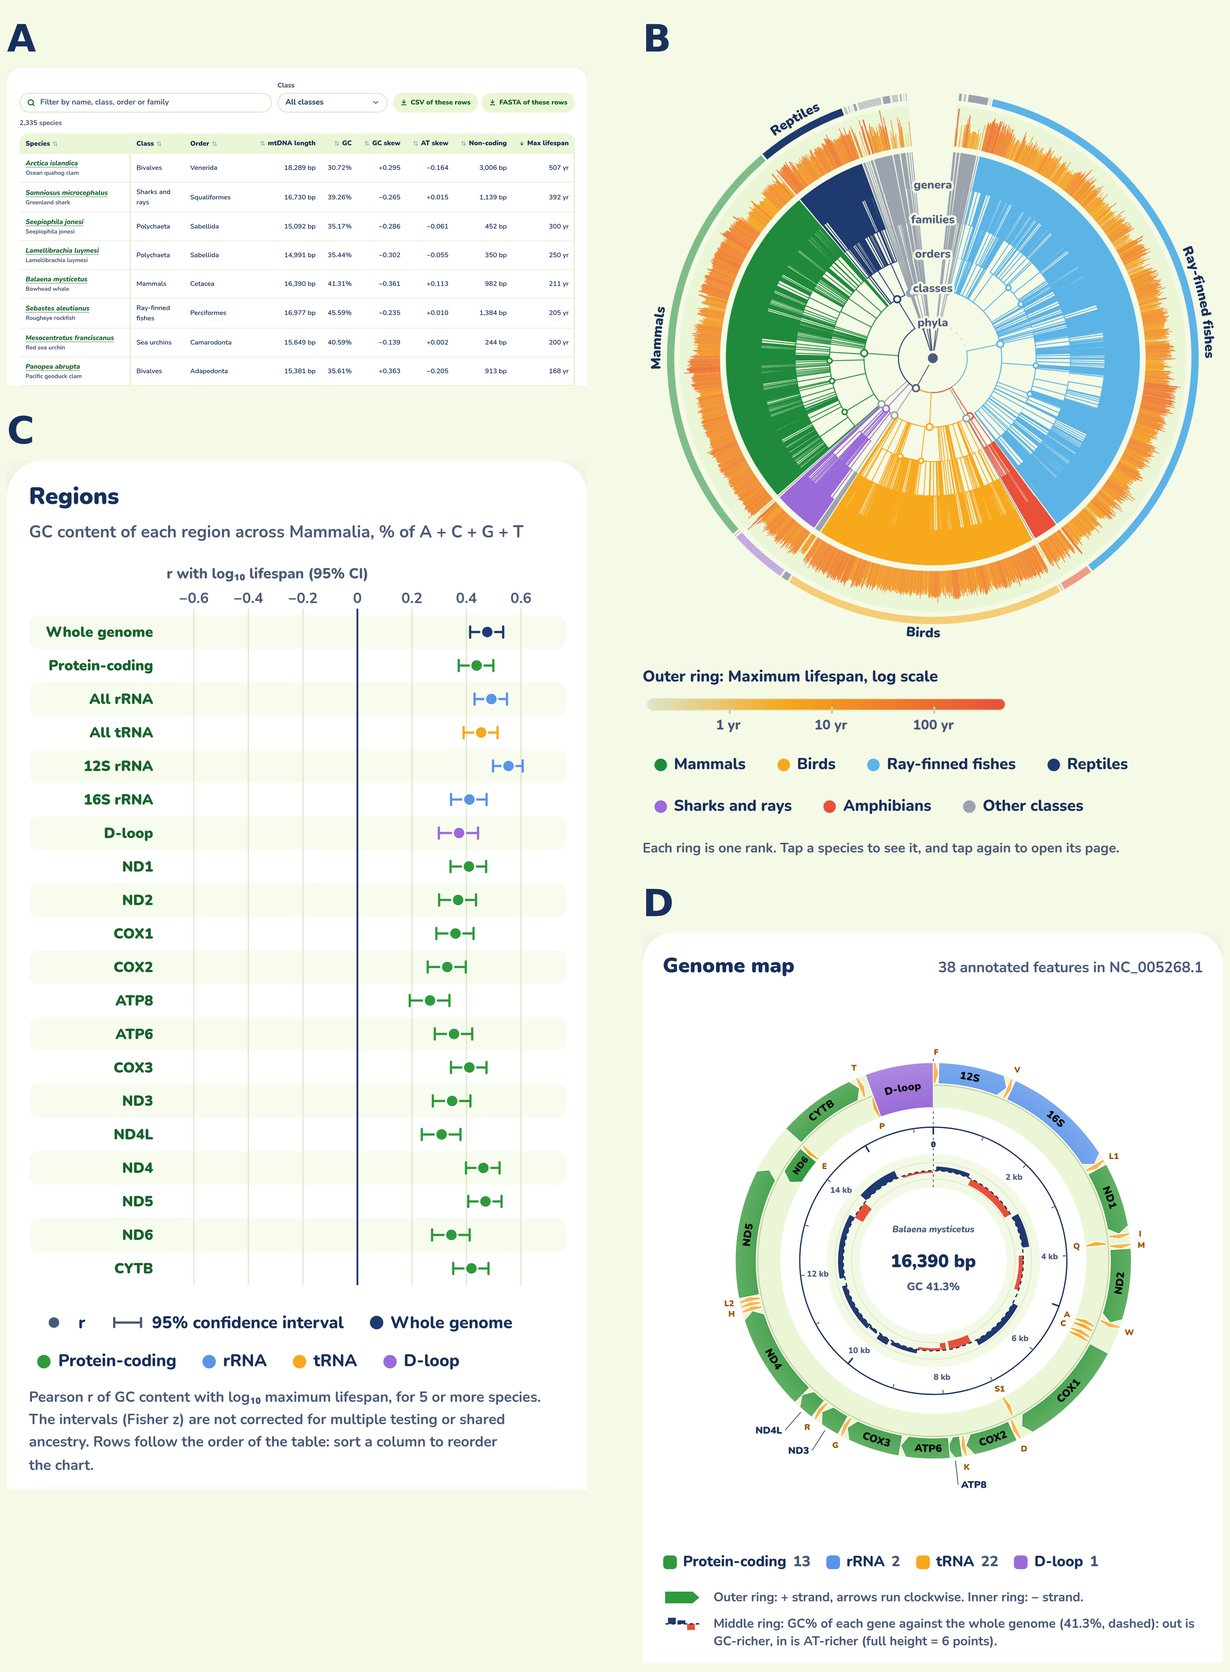
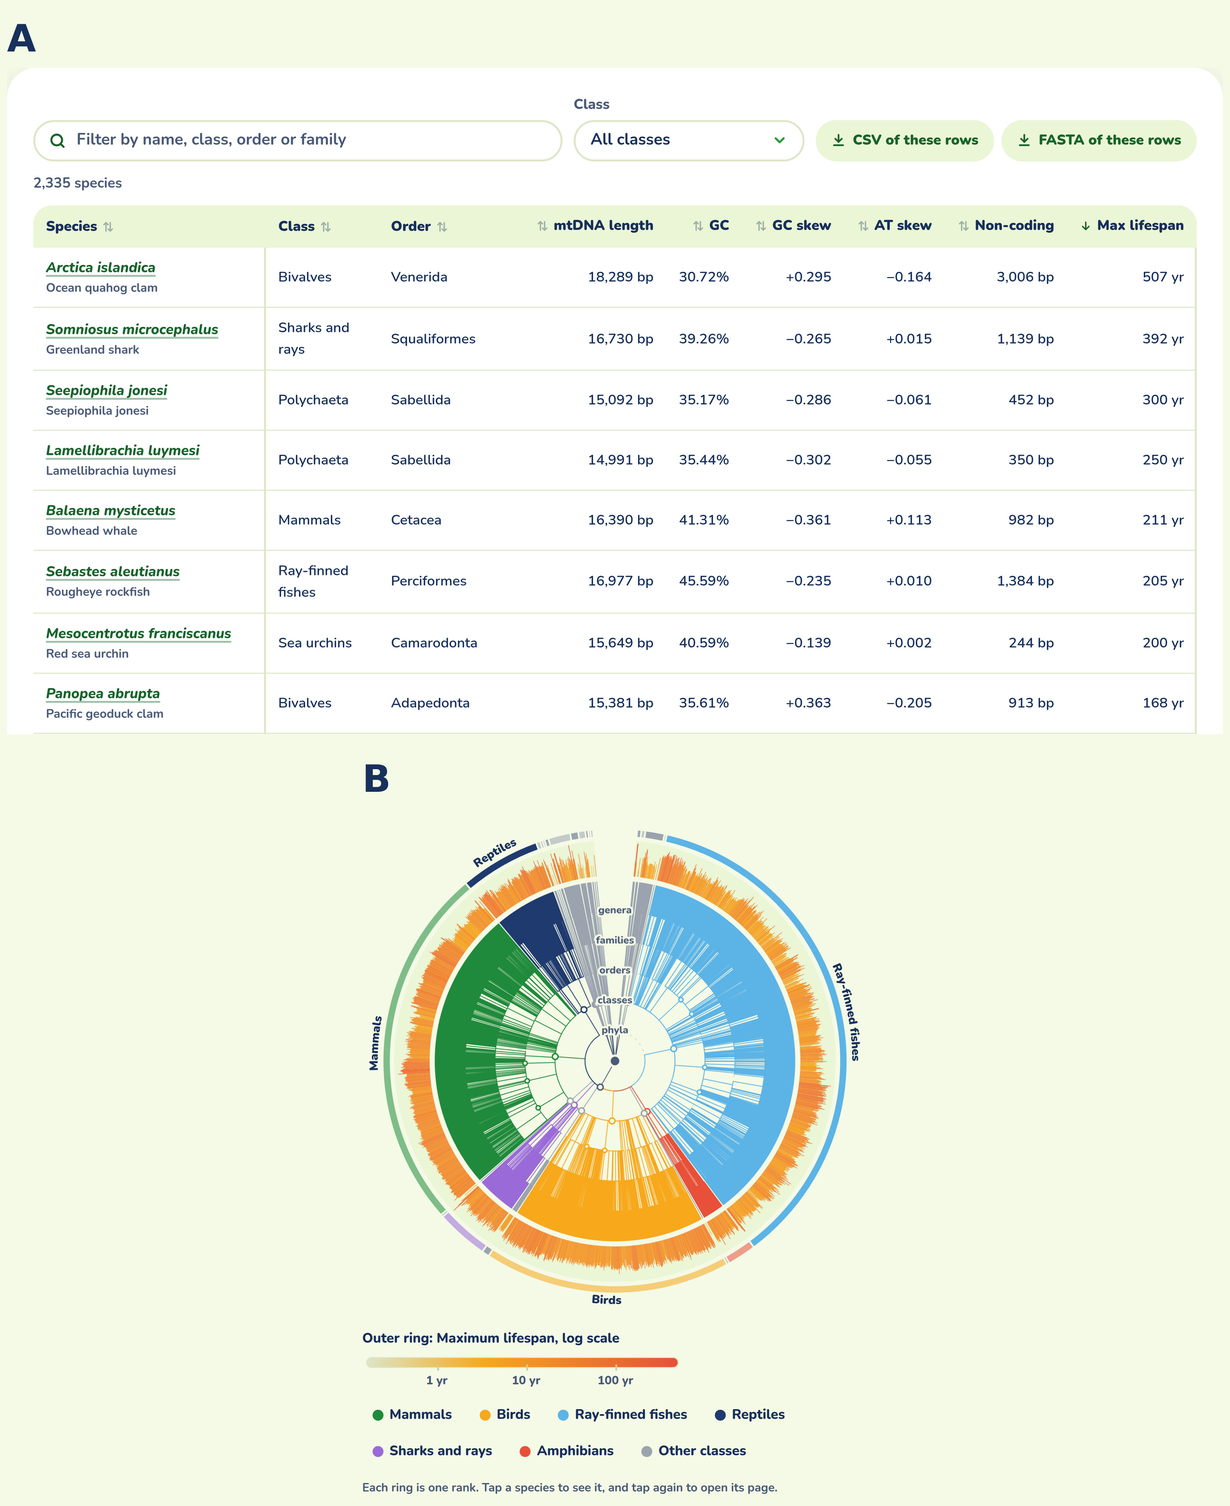
Figure 3 is split so its species list prints legibly, and Figure 4 says what the alignment view is for
Decision D7 of the manuscript run: Figure 3 keeps the species list across the page (5 pt, from 2.4) and the
radial tree; the Compare chart and the genome map become Figure 3—figure supplement 1, made by the same
capture script. The text cites the new panels, Figure 4's legend gains what the lifespan-sorted alignment
shows, and NOTES.md gives each image's printed size.

diff --git a/docs/manuscript/figures/capture-figures-3-4.ts b/docs/manuscript/figures/capture-figures-3-4.ts
@@ -1,4 +1,5 @@
-// Figures 3 and 4 of the MitoAge 2 manuscript: the interface and the COX1 alignment, captured from the built site.
+// Figures 3 and 4 of the MitoAge 2 manuscript and Figure 3—figure supplement 1: the interface and the COX1
+// alignment, captured from the built site.
 //
 //   bun run build                                                     # if dist/ is not current
 //   env SITE_URL=https://just-dna.life BASE_PATH=/mitoage bun run preview --port 4349
@@ -24,10 +25,11 @@
 //      without the selectors, the search and the download cards. Viewport 660 px, so that the grid is at
 //      least 560 px wide and the viewer keeps its full species names.
 //
-// Figure 3 is laid out for the page width (178 mm): A above C in the left column, B above D in the right,
-// each column 86 mm. Figure 4 is laid out for one column (86 mm). ImageMagick labels the panels and writes
-// FIGURE_3_INTERFACE.jpg and FIGURE_4_ALIGNMENT.jpg (quality 90). The script prints, for each panel, the
-// smallest text in it and the size that text prints at.
+// Figure 3 (decision D7) is panel A across the page (178 mm) with panel B centred under it, as wide as a
+// total height of 218 mm allows. Figure 3—figure supplement 1 is C beside D, relabelled A and B, each in a
+// column of 86 mm across the page. Figure 4 is one column (86 mm). ImageMagick labels the panels and writes
+// FIGURE_3_INTERFACE.jpg, FIGURE_3_SUPPLEMENT_1.jpg and FIGURE_4_ALIGNMENT.jpg (quality 90). The script
+// prints, for each panel, the smallest text in it and the size that text prints at.
 
 import { openChrome, originArg, magick, size, printedPt, sleep, join, type Rect } from "./cdp.ts";
 
@@ -42,7 +44,9 @@ const PAGE_MM = 178;
 const DPI = 450; // the composed figures, as printed
 const colPx = Math.round((COLUMN_MM / 25.4) * DPI);
 const gutterPx = Math.round(((PAGE_MM - 2 * COLUMN_MM) / 25.4) * DPI);
+const MAX_HEIGHT_MM = 218; // Figure 3, as printed
 const out3 = join(import.meta.dir, "FIGURE_3_INTERFACE.jpg");
+const out3s = join(import.meta.dir, "FIGURE_3_SUPPLEMENT_1.jpg");
 const out4 = join(import.meta.dir, "FIGURE_4_ALIGNMENT.jpg");
 
 type Panel = { letter: string; file: string; cssWidth: number; smallest: { px: number; text: string }; note?: string };
@@ -201,38 +205,59 @@ try {
   await c.close();
 
   // ------------------------------------------------------------------------------------------- composing
-  // Each panel to the column width, its letter above it, on the page background.
-  const placed = (p: Panel, name: string) => {
-    const scaled = join(w, `${name}-col.png`);
-    magick([p.file, "-resize", `${colPx - 2 * 18}x`, "-bordercolor", BG, "-border", "18x0", scaled]);
-    if (!p.letter) return scaled;
+  // A panel scaled to a width, its letter above it, on the page background; returns the file and the width
+  // in mm the panel's own image prints at.
+  const pagePx = Math.round((PAGE_MM / 25.4) * DPI);
+  const MARGIN = 18;
+  const placed = (p: Panel, name: string, widthPx: number, letter = p.letter) => {
+    const scaled = join(w, `${name}-w.png`);
+    magick([p.file, "-resize", `${widthPx - 2 * MARGIN}x`, "-bordercolor", BG, "-border", `${MARGIN}x0`, scaled]);
+    const mm = ((widthPx - 2 * MARGIN) / DPI) * 25.4;
+    if (!letter) return { file: scaled, mm };
     const labelled = join(w, `${name}-lab.png`);
-    magick(["-background", BG, "-fill", INK, "-font", FONT, "-pointsize", "96", "(", "-size", `${colPx}x150`, "xc:" + BG, "-gravity", "west",
-      "-annotate", "+18+0", p.letter, ")", scaled, "-append", labelled]);
-    return labelled;
+    magick(["-background", BG, "-fill", INK, "-font", FONT, "-pointsize", "96", "(", "-size", `${widthPx}x150`, "xc:" + BG, "-gravity", "west",
+      "-annotate", `+${MARGIN}+0`, letter, ")", scaled, "-append", labelled]);
+    return { file: labelled, mm };
   };
-  const spacer = (h: number) => {
-    const f = join(w, `spacer-${h}.png`);
-    magick(["-size", `${colPx}x${h}`, `xc:${BG}`, f]);
-    return f;
-  };
-  const left = join(w, "left.png");
-  const right = join(w, "right.png");
-  magick(["-background", BG, placed(panels.A, "a"), spacer(40), placed(panels.C, "c"), "-append", left]);
-  magick(["-background", BG, placed(panels.B, "b"), spacer(40), placed(panels.D, "d"), "-append", right]);
-  magick(["-background", BG, left, "(", "-size", `${gutterPx}x1`, `xc:${BG}`, ")", right, "-gravity", "north", "+append",
+  const printed: Record<string, number> = {}; // mm each panel prints at
+
+  // Figure 3: A across the page; B under it, centred, as wide as the height budget allows.
+  const a3 = placed(panels.A, "a", pagePx);
+  printed.A = a3.mm;
+  const budgetPx = Math.round((MAX_HEIGHT_MM / 25.4) * DPI);
+  const bImg = size(panels.B.file);
+  const room = budgetPx - size(a3.file).h - 40 - 150 - 48; // spacer, B's letter strip, top and bottom border
+  const bWidth = Math.min(pagePx, Math.floor((room * bImg.w) / bImg.h) + 2 * MARGIN);
+  const b3 = placed(panels.B, "b", bWidth);
+  printed.B = b3.mm;
+  magick(["-background", BG, a3.file, "(", "-size", `${pagePx}x40`, `xc:${BG}`, ")",
+    "(", b3.file, "-gravity", "center", "-extent", `${pagePx}x${size(b3.file).h}`, ")", "-gravity", "northwest", "-append",
     "-bordercolor", BG, "-border", "0x24", "-quality", "90", out3]);
-  magick([placed(panels.F4, "f4"), "-background", BG, "-bordercolor", BG, "-border", "0x24", "-quality", "90", out4]);
+
+  // Figure 3—figure supplement 1: C beside D, each in a column of 86 mm, relabelled A and B.
+  const c3 = placed(panels.C, "c", colPx, "A");
+  const d3 = placed(panels.D, "d", colPx, "B");
+  printed.C = c3.mm;
+  printed.D = d3.mm;
+  magick(["-background", BG, c3.file, "(", "-size", `${gutterPx}x1`, `xc:${BG}`, ")", d3.file, "-gravity", "north", "+append",
+    "-bordercolor", BG, "-border", "0x24", "-quality", "90", out3s]);
+
+  // Figure 4: one column.
+  const f4 = placed(panels.F4, "f4", colPx);
+  printed.F4 = f4.mm;
+  magick([f4.file, "-background", BG, "-bordercolor", BG, "-border", "0x24", "-quality", "90", out4]);
 
   const report = (file: string, mm: number) => {
     const s = size(file);
     return `${s.w} x ${s.h} px; at ${mm} mm wide ${((mm * s.h) / s.w).toFixed(0)} mm tall, ${(s.w / (mm / 25.4)).toFixed(0)} dpi`;
   };
   console.log(`wrote ${out3}: ${report(out3, PAGE_MM)}`);
+  console.log(`wrote ${out3s}: ${report(out3s, PAGE_MM)}`);
   console.log(`wrote ${out4}: ${report(out4, COLUMN_MM)}`);
+  const names: Record<string, string> = { A: "Figure 3A", B: "Figure 3B", C: "supplement A (Regions)", D: "supplement B (genome map)", F4: "Figure 4" };
   for (const [k, p] of Object.entries(panels)) {
-    const pt = printedPt(p.smallest.px, p.cssWidth, COLUMN_MM - (2 * 18 * 25.4) / DPI);
-    console.log(`smallest text, ${k === "F4" ? "Figure 4" : `panel 3${k}`}: ${p.smallest.px.toFixed(1)} CSS px ("${p.smallest.text}") in a cut ${Math.round(p.cssWidth)} px wide, ${pt.toFixed(1)} pt in a ${COLUMN_MM} mm column`);
+    const pt = printedPt(p.smallest.px, p.cssWidth, printed[k]);
+    console.log(`smallest text, ${names[k]}: ${p.smallest.px.toFixed(1)} CSS px ("${p.smallest.text}") in a cut ${Math.round(p.cssWidth)} px wide, printed ${printed[k].toFixed(0)} mm wide: ${pt.toFixed(1)} pt`);
   }
   console.log(`panels in ${w}`);
 } catch (e) {

diff --git a/docs/manuscript/mitoage2.md b/docs/manuscript/mitoage2.md
@@ -376,9 +376,8 @@ has no partial correlation, so none of its tests passes all three.
 > correlation table the build writes; Figures 3, 4 and 5 are screenshots of the build 2 site. On 2026-11-15
 > every figure was redrawn or retaken for print by the scripts in `figures/` (NOTES.md, "Figures"), the
 > screenshots from a build of `main` after roadmap RM19, and every legend number was checked against them.
-> Still yours: the screenshots' smallest text prints at 2.4 to 6 pt (Figure 3A smallest, and Figure 3 is
-> taller than a page), so Figure 3 needs splitting or some panels moved to a supplement (eLife allows
-> figure supplements).
+> Figure 3 was split on 2026-11-15 (decision D7): its Compare chart and genome map are now Figure 3—figure
+> supplement 1. The smallest printed text is 3.4 to 6 pt across the screenshots (the tree and the genome map).
 
 ![Figure 1. What the controls leave of the lifespan correlations](figures/FIGURE_1_CONTROLS.jpg)
 
@@ -471,7 +470,7 @@ therefore not assessed here, rather than assessed and found negative.
 The menu follows the data: Species, Tree, Genes, Compare, Data and About (Figure 3).
 
 - **Species.** A sortable, filterable list of all species in two views, genome features and life
-  history (Figure 3A), with a page per species and its circular genome map (Figure 3D). The filtered rows
+  history (Figure 3A), with a page per species and its circular genome map (Figure 3—figure supplement 1B). The filtered rows
   download as CSV and their mitogenomes as one FASTA file, which the browser fetches from NCBI by versioned accession; MitoAge
   does not store the mitogenomes themselves.
 - **Tree.** A zoomable radial tree of the species on the dated phylogeny (Figure 3B), with a page per
@@ -480,7 +479,7 @@ The menu follows the data: Species, Tree, Genes, Compare, Data and About (Figure
   across species, its correlations with lifespan, and its alignment with lifespan shown beside the rows
   (Figure 4).
 - **Compare.** The comparative statistics of the original site (summary statistics and r with log10 lifespan,
-  by region or by child taxon, and codon usage), each table with a chart of its rows (Figure 3C). Two to six species can be set side by side.
+  by region or by child taxon, and codon usage), each table with a chart of its rows (Figure 3—figure supplement 1A). Two to six species can be set side by side.
 - **Plot explorer**, under Compare. Any two mtDNA features, or a feature against a life-history trait, for all species or
   one taxon, with the strongest correlations listed with their false discovery rate, partial and contrast
   statistics (Figure 5).
@@ -501,9 +500,13 @@ links to the original site's data in the literature keep working.
 the ocean quahog (*Arctica islandica*, 507 years) and the Greenland shark (*Somniosus microcephalus*,
 392 years) lead the 2,335 species the list holds, the 19 retired ones included. The rows shown, after any filter, download as CSV and their mitogenomes
 as one FASTA file. (**B**) The radial tree of all species by taxonomic rank, coloured by class, with each
-species' maximum lifespan on a log scale in the outer ring; any clade zooms into view. (**C**) Compare,
+species' maximum lifespan on a log scale in the outer ring; any clade zooms into view.
+
+![Figure 3—figure supplement 1. Two further views of the interface](figures/FIGURE_3_SUPPLEMENT_1.jpg)
+
+**Figure 3—figure supplement 1.** Two further views of the interface. (**A**) Compare,
 class Mammalia: Pearson's r of the GC content of each region with log10 maximum lifespan and its 95%
-confidence interval, computed by the page for 5 or more species and not corrected for multiple testing or shared ancestry. (**D**) The
+confidence interval, computed by the page for 5 or more species and not corrected for multiple testing or shared ancestry. (**B**) The
 circular genome map of the bowhead whale (*Balaena mysticetus*, NC_005268.1, 16,390 bp): genes on the
 two strands in the outer and inner rings, and in the middle ring the GC content of each gene against that
 of the whole genome.
@@ -516,7 +519,8 @@ whales. Residues are coloured by the class of their side chain; the bar above ea
 the rows on show that carry its most common residue, and each species' maximum lifespan is drawn beside its
 row. The alignment (MAFFT v7.526, FFT-NS-2) covers 2,316 species in 679 columns; columns where more than
 half of the rows on show have a gap are hidden (514 of 679 remain; the panel shows the first 20 rows and 24 of
-those columns).
+those columns). Sorted by lifespan, each column puts the residues of long- and short-lived species side by side;
+the screen of single alignment columns on the dated tree (Results) tests such differences systematically.
 
 ![Figure 5. The plot explorer](figures/FIGURE_5_PLOT_EXPLORER.jpg)
 

diff --git a/docs/manuscript/mitoage2.proposed.md b/docs/manuscript/mitoage2.proposed.md
@@ -376,9 +376,8 @@ has no partial correlation, so none of its tests passes all three.
 > correlation table the build writes; Figures 3, 4 and 5 are screenshots of the build 2 site. On 2026-11-15
 > every figure was redrawn or retaken for print by the scripts in `figures/` (NOTES.md, "Figures"), the
 > screenshots from a build of `main` after roadmap RM19, and every legend number was checked against them.
-> Still yours: the screenshots' smallest text prints at 2.4 to 6 pt (Figure 3A smallest, and Figure 3 is
-> taller than a page), so Figure 3 needs splitting or some panels moved to a supplement (eLife allows
-> figure supplements).
+> Figure 3 was split on 2026-11-15 (decision D7): its Compare chart and genome map are now Figure 3—figure
+> supplement 1. The smallest printed text is 3.4 to 6 pt across the screenshots (the tree and the genome map).
 
 ![Figure 1. What the controls leave of the lifespan correlations](figures/FIGURE_1_CONTROLS.jpg)
 
@@ -471,7 +470,7 @@ therefore not assessed here, rather than assessed and found negative.
 The menu follows the data: Species, Tree, Genes, Compare, Data and About (Figure 3).
 
 - **Species.** A sortable, filterable list of all species in two views, genome features and life
-  history (Figure 3A), with a page per species and its circular genome map (Figure 3D). The filtered rows
+  history (Figure 3A), with a page per species and its circular genome map (Figure 3—figure supplement 1B). The filtered rows
   download as CSV and their mitogenomes as one FASTA file, which the browser fetches from NCBI by versioned accession; MitoAge
   does not store the mitogenomes themselves.
 - **Tree.** A zoomable radial tree of the species on the dated phylogeny (Figure 3B), with a page per
@@ -480,7 +479,7 @@ The menu follows the data: Species, Tree, Genes, Compare, Data and About (Figure
   across species, its correlations with lifespan, and its alignment with lifespan shown beside the rows
   (Figure 4).
 - **Compare.** The comparative statistics of the original site (summary statistics and r with log10 lifespan,
-  by region or by child taxon, and codon usage), each table with a chart of its rows (Figure 3C). Two to six species can be set side by side.
+  by region or by child taxon, and codon usage), each table with a chart of its rows (Figure 3—figure supplement 1A). Two to six species can be set side by side.
 - **Plot explorer**, under Compare. Any two mtDNA features, or a feature against a life-history trait, for all species or
   one taxon, with the strongest correlations listed with their false discovery rate, partial and contrast
   statistics (Figure 5).
@@ -501,9 +500,13 @@ links to the original site's data in the literature keep working.
 the ocean quahog (*Arctica islandica*, 507 years) and the Greenland shark (*Somniosus microcephalus*,
 392 years) lead the 2,335 species the list holds, the 19 retired ones included. The rows shown, after any filter, download as CSV and their mitogenomes
 as one FASTA file. (**B**) The radial tree of all species by taxonomic rank, coloured by class, with each
-species' maximum lifespan on a log scale in the outer ring; any clade zooms into view. (**C**) Compare,
+species' maximum lifespan on a log scale in the outer ring; any clade zooms into view.
+
+![Figure 3—figure supplement 1. Two further views of the interface](figures/FIGURE_3_SUPPLEMENT_1.jpg)
+
+**Figure 3—figure supplement 1.** Two further views of the interface. (**A**) Compare,
 class Mammalia: Pearson's r of the GC content of each region with log10 maximum lifespan and its 95%
-confidence interval, computed by the page for 5 or more species and not corrected for multiple testing or shared ancestry. (**D**) The
+confidence interval, computed by the page for 5 or more species and not corrected for multiple testing or shared ancestry. (**B**) The
 circular genome map of the bowhead whale (*Balaena mysticetus*, NC_005268.1, 16,390 bp): genes on the
 two strands in the outer and inner rings, and in the middle ring the GC content of each gene against that
 of the whole genome.
@@ -516,7 +519,8 @@ whales. Residues are coloured by the class of their side chain; the bar above ea
 the rows on show that carry its most common residue, and each species' maximum lifespan is drawn beside its
 row. The alignment (MAFFT v7.526, FFT-NS-2) covers 2,316 species in 679 columns; columns where more than
 half of the rows on show have a gap are hidden (514 of 679 remain; the panel shows the first 20 rows and 24 of
-those columns).
+those columns). Sorted by lifespan, each column puts the residues of long- and short-lived species side by side;
+the screen of single alignment columns on the dated tree (Results) tests such differences systematically.
 
 ![Figure 5. The plot explorer](figures/FIGURE_5_PLOT_EXPLORER.jpg)
 

diff --git a/docs/manuscript/NOTES.md b/docs/manuscript/NOTES.md
@@ -174,7 +174,7 @@ the page 178 mm, text at least 6 pt and images at least 300 dpi as printed.
 bun docs/manuscript/figures/figure-1-controls.ts        # Figure 1
 bun docs/manuscript/figures/figure-2-codons.ts          # Figure 2
 env SITE_URL=https://just-dna.life BASE_PATH=/mitoage bun run preview --port 4349   # read the port it took from its log
-bun docs/manuscript/figures/capture-figures-3-4.ts http://localhost:4349            # Figures 3 and 4
+bun docs/manuscript/figures/capture-figures-3-4.ts http://localhost:4349            # Figure 3, its supplement 1, Figure 4
 bun docs/manuscript/figures/capture-figure-5.ts http://localhost:4349               # Figure 5
 ```
 
@@ -182,13 +182,15 @@ bun docs/manuscript/figures/capture-figure-5.ts http://localhost:4349           
 |---|---|---|---|---|
 | 1 | `figure-1-controls.ts` | 178 mm | 3,000 × 2,568 px, 428 dpi | 7.6 pt |
 | 2 | `figure-2-codons.ts` | 178 mm (158 mm tall) | 3,000 × 2,670 px, 428 dpi | 7.1 pt |
-| 3 | `capture-figures-3-4.ts` | 178 mm, 2 × 2 in columns of 86 mm (242 mm tall) | 3,154 × 4,285 px, 450 dpi | A 2.4 pt, B 4.3 pt, C 5.9 pt, D 3.4 pt |
+| 3 | `capture-figures-3-4.ts` | 178 mm: A across the page, B centred under it, 73 mm wide (218 mm tall) | 3,154 × 3,861 px, 450 dpi | A 5.0 pt, B 3.7 pt |
+| 3—figure supplement 1 | `capture-figures-3-4.ts` | 178 mm: A (Regions) beside B (genome map), 86 mm each (160 mm tall) | 3,154 × 2,837 px, 450 dpi | A 6.0 pt, B 3.4 pt |
 | 4 | `capture-figures-3-4.ts` | 86 mm (95 mm tall) | 1,524 × 1,678 px, 450 dpi | 4.3 pt |
 | 5 | `capture-figure-5.ts` | 178 mm, A above B (207 mm tall) | 3,600 × 4,181 px, 514 dpi | A 5.3 pt, B 6.0 pt |
 
 The screenshots cannot reach 6 pt by cropping alone: the site's smallest text is 8.4 to 13 CSS px, and the
 narrowest layout that keeps a panel whole is 520 to 1,300 px wide. 3A needs 1,360 px before the table
-stops scrolling sideways; the genome map (3D) draws its scale at 8.4 px; the alignment viewer cuts species
+stops scrolling sideways, so it is set across the page (decision D7: Figure 3 keeps A and B, and the Regions
+chart and the genome map moved to Figure 3—figure supplement 1); the genome map draws its scale at 8.4 px; the alignment viewer cuts species
 names when its grid is under 560 px. Each script prints the smallest text of each panel and its printed size.
 
 - `figure-1-controls.ts` and `figure-2-codons.ts` read `dist/data/correlations.parquet` with hyparquet
@@ -205,8 +207,8 @@ names when its grid is under 560 px. Each script prints the smallest text of eac
 |---|---|---|---|
 | 3A | `/species/` | 1,360 px | sorted by maximum lifespan, longest first; toolbar with the two download buttons, the count and the first eight rows |
 | 3B | `/tree/` | 600 px | as it opens (by rank, lifespan ring); the tree and its legend, without the taxon card and the controls |
-| 3C | `/compare/class/mammalia/?chart=r` | 560 px | the Regions card's title, chart, key and note, without the selectors |
-| 3D | `/species/balaena-mysticetus/` | 640 px | the Genome map card's title, map, legend and keys, without the help card |
+| 3—S1 A (was 3C) | `/compare/class/mammalia/?chart=r` | 560 px | the Regions card's title, chart, key and note, without the selectors |
+| 3—S1 B (was 3D) | `/species/balaena-mysticetus/` | 640 px | the Genome map card's title, map, legend and keys, without the help card |
 | 4 | `/genes/cox1/` | 660 px | Alignment card, class Mammalia, longest-lived first; title, count line, the first 20 rows (24 columns) and the colour key |
 | 5A | `/compare/plot/?x=maxLongevityYears&y=gc:total_mtDNA&scope=class:Mammalia&fit=1&highlight=homo-sapiens,balaena-mysticetus,heterocephalus-glaber,mus-musculus` | 1,280 px | the plot card down to its class legend, beside the corrected statistics; without the hint, the switch, the buttons and the live statistics |
 | 5B | the same page | 1,150 px | Strongest correlations as it opens (maximum lifespan, all species): the title, the summary line and the first five rows |
@@ -264,4 +266,5 @@ IC-8 fix the empty scope is gone and the table holds 32.
   test's calibration (it rejects about 40% of tests in fish scopes, more than the uncontrolled test, which
   suggests checking the contrast code against an established implementation), strand orientation per record,
   a second ancestry model, and the Abstract's "independent reproduction", which does not cover the correlations.
-- Figure 3 cannot be printed legibly as one figure (panel A at 2.4 pt): split it or move panels to a supplement.
+- Figure 3 is split (D7): A and B stay, the Regions chart and the genome map are Figure 3—figure supplement 1. Its
+  smallest text still prints under 6 pt (3B 3.7 pt, the genome map 3.4 pt; "Figures" above).
